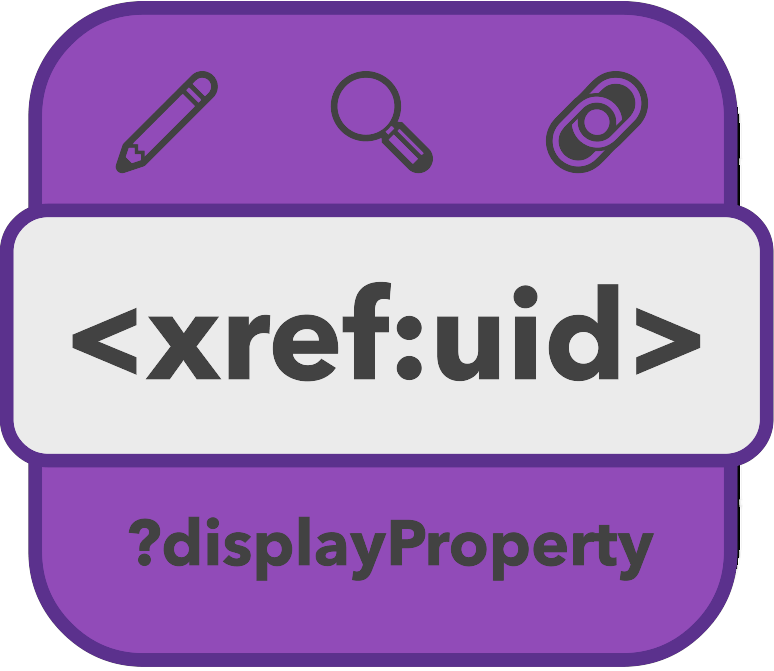
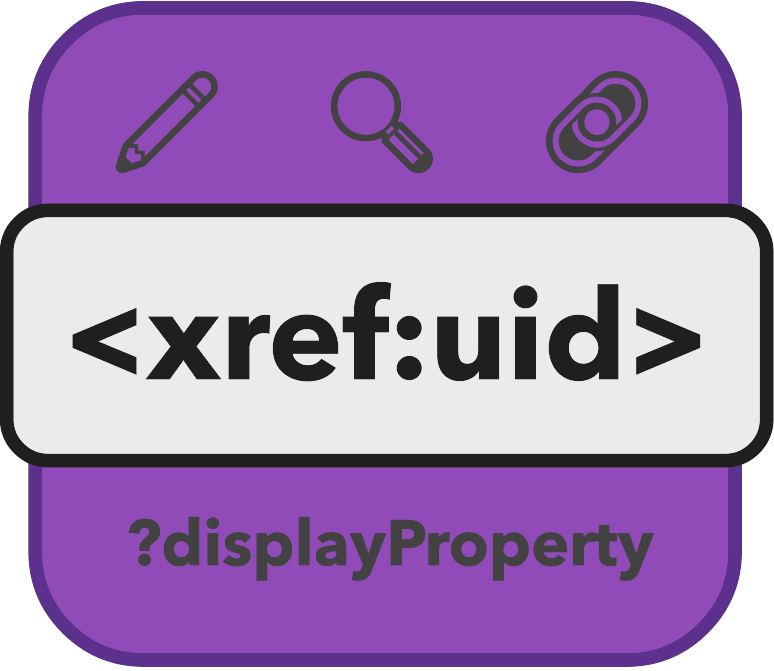
README (#43)
* README

* Adjust image

* Apply suggestions from code review

* Update README.md

---------

Changed region(s): [[0.0, 0.0, 1.0, 1.0], [0.093, 0.4173, 0.8992, 0.5663]]

diff --git a/README.md b/README.md
@@ -1,6 +1,36 @@
-# API Reference Link Helper
+# 🔗 API Reference Link Helper
 
-This extension is primarily used to help developers quickly find and navigate to the official Microsoft API reference documentation for .NET types and members. It uses the [Microsoft Learn API Browser](https://learn.microsoft.com/api/apibrowser/dotnet/search) to search for the requested type or member. It exposes the ability to insert a markdown link to the documentation in the active editor. It supports `<xref:uid>` format, `?displayProperty` editing and quick management of API links.
+This extension helps content developers quickly insert and edit xref links to the official Microsoft API reference documentation for .NET types and members. It uses the [Microsoft Learn API Browser](https://learn.microsoft.com/api/apibrowser/dotnet/search) to search for a requested type or member. It exposes the ability to insert a markdown link to the markdown file open in the active editor. It supports the creation of links that display only the type or member name in the link text, type name with member name, fully qualified name, or custom text.
+
+## Example Usage
+
+Open the command palette <kbd>F1</kbd> and search for **Insert XREF Link**. Select the command, and when prompted, enter the type or member name you want to link to.
+
+![Insert XREF link](images/command-pallette-insert-xref.png)
+
+### Search validations
+
+After you start typing, if you delete the text, there's a validation error that will appear. The extension will not allow you to insert an empty search term:
+
+![Empty](images/command-pallette-insert-xref-validation-empty.png)
+
+The search term cannot contain spaces:
+
+![Spaces](images/command-pallette-insert-xref-validation-space.png)
+
+The search term must include opening and closing bracket pairs:
+
+![Brackets](images/command-pallette-insert-xref-validation-brackets.png)
+
+After a valid search term is entered, the extension searches for the configured API and displays the most relevant results.
+
+![Results](images/command-pallette-insert-xref-results.png)
+
+Once you select a result, you're prompted to choose the format of the link you want to insert.
+
+![URL formats](images/command-pallette-insert-xref-all-formats.png)
+
+Finally, the extension inserts the selected link format into the active editor.
 
 ## Getting Started
 
@@ -8,9 +38,33 @@ To install the extension, download the [latest _xref-helper.vsix_](https://githu
 
 ## Features
 
-```
-// TODO: Add features
-```
+The following URL formats are supported, given the example `System.String.Format` method when selecting the [overloads option](#overloads-option) and **Method overloads** search result:
+
+| Format | Resulting Markdown | Example HTML |
+|--|--|--|
+| Default | `<xref:System.String.Format*>` | `<a href="https://docs.microsoft.com/dotnet/api/system.string.format">Format</a>` |
+| Full name | `<xref:System.String.Format*?displayProperty=fullName>` | `<a href="https://docs.microsoft.com/dotnet/api/system.string.format">System.String.Format</a>` |
+| Name with type | `<xref:System.String.Format*?displayProperty=nameWithType>` | `<a href="https://docs.microsoft.com/dotnet/api/system.string.format">String.Format</a>` |
+| Custom link text | `[The string.Format method](xref:System.String.Format*)` | `<a href="https://docs.microsoft.com/dotnet/api/system.string.format">The string.Format method</a>` |
+
+_Command pallette commands:_
+
+- **Insert XREF Link**: Inserts a markdown (`<xref:uid>`) link to the official Microsoft API reference documentation for the selected type or member.
+- **Insert API Reference Link**: Inserts a markdown (`[Name](/link)`) link to the official Microsoft API reference documentation for the selected type or member.
+- **Transform XREF to Other**: Convert XREF link between `[](xref:)` and `<xref:>`.
+
+_Auto-completions:_
+
+- **XREF Link Completion**: When typing `<xref:`, the extension will suggest the **Insert XREF Link** as a completion.
+- **XREF Display Property Completion**: When typing `<xref:uid?`, the extension will suggest the possible display properties as completions.
+
+_Code actions:_
+
+- **XREF Display Property Switch**: The quick-edit code action (💡) is displayed when your cursor is on a line that contains an `xref` link with an existing display property, allowing you to quickly change the display property.
+
+_Context menu commands:_
+
+- **Convert XREF Link**: When a full `xref` link is selected, a context menu command is available to convert the link between `[](xref:)` and `<xref:>`.
 
 ## Requirements
 
@@ -21,9 +75,9 @@ To install the extension, download the [latest _xref-helper.vsix_](https://githu
 In Visual Studio Code settings, search for `"XREF Helper"` (or paste this filter into the search bar `@ext:ievangelist.xref-helper`). You can configure the following settings:
 
 | Setting | Description | Default |
-| --- | --- | --- |
+|--|--|--|
 | **Xref Helper: Api Url** <br/> `xref-helper.apiUrl` | The URL to use when searching for XREFs. (Defaults to the .NET API search URL.) | `https://learn.microsoft.com/api/apibrowser/dotnet/search` |
-| **Xref Helper: Append Overloads** <br/> `xref-helper.appendOverloads` | Whether to append overloads to the search results. Applies to methods and constructors. | `true` |
+| <a name="overloads-option" />**Xref Helper: Append Overloads** <br/> `xref-helper.appendOverloads` | Whether to append overloads to the search results. Applies to methods and constructors. | `true` |
 | **Xref Helper: Query String Parameters** <br/> `xref-helper.queryStringParameters` | The query string parameters to include when searching for XREFs. | `[ { "name": "api-version", "value": "0.2" }, { "name": "locale", "value": "en-us" } ]` |
 
-![Settings Screenshot](https://raw.githubusercontent.com/IEvangelist/xref-helper/main/images/settings.png)
+![Settings Screenshot](images/settings.png)
